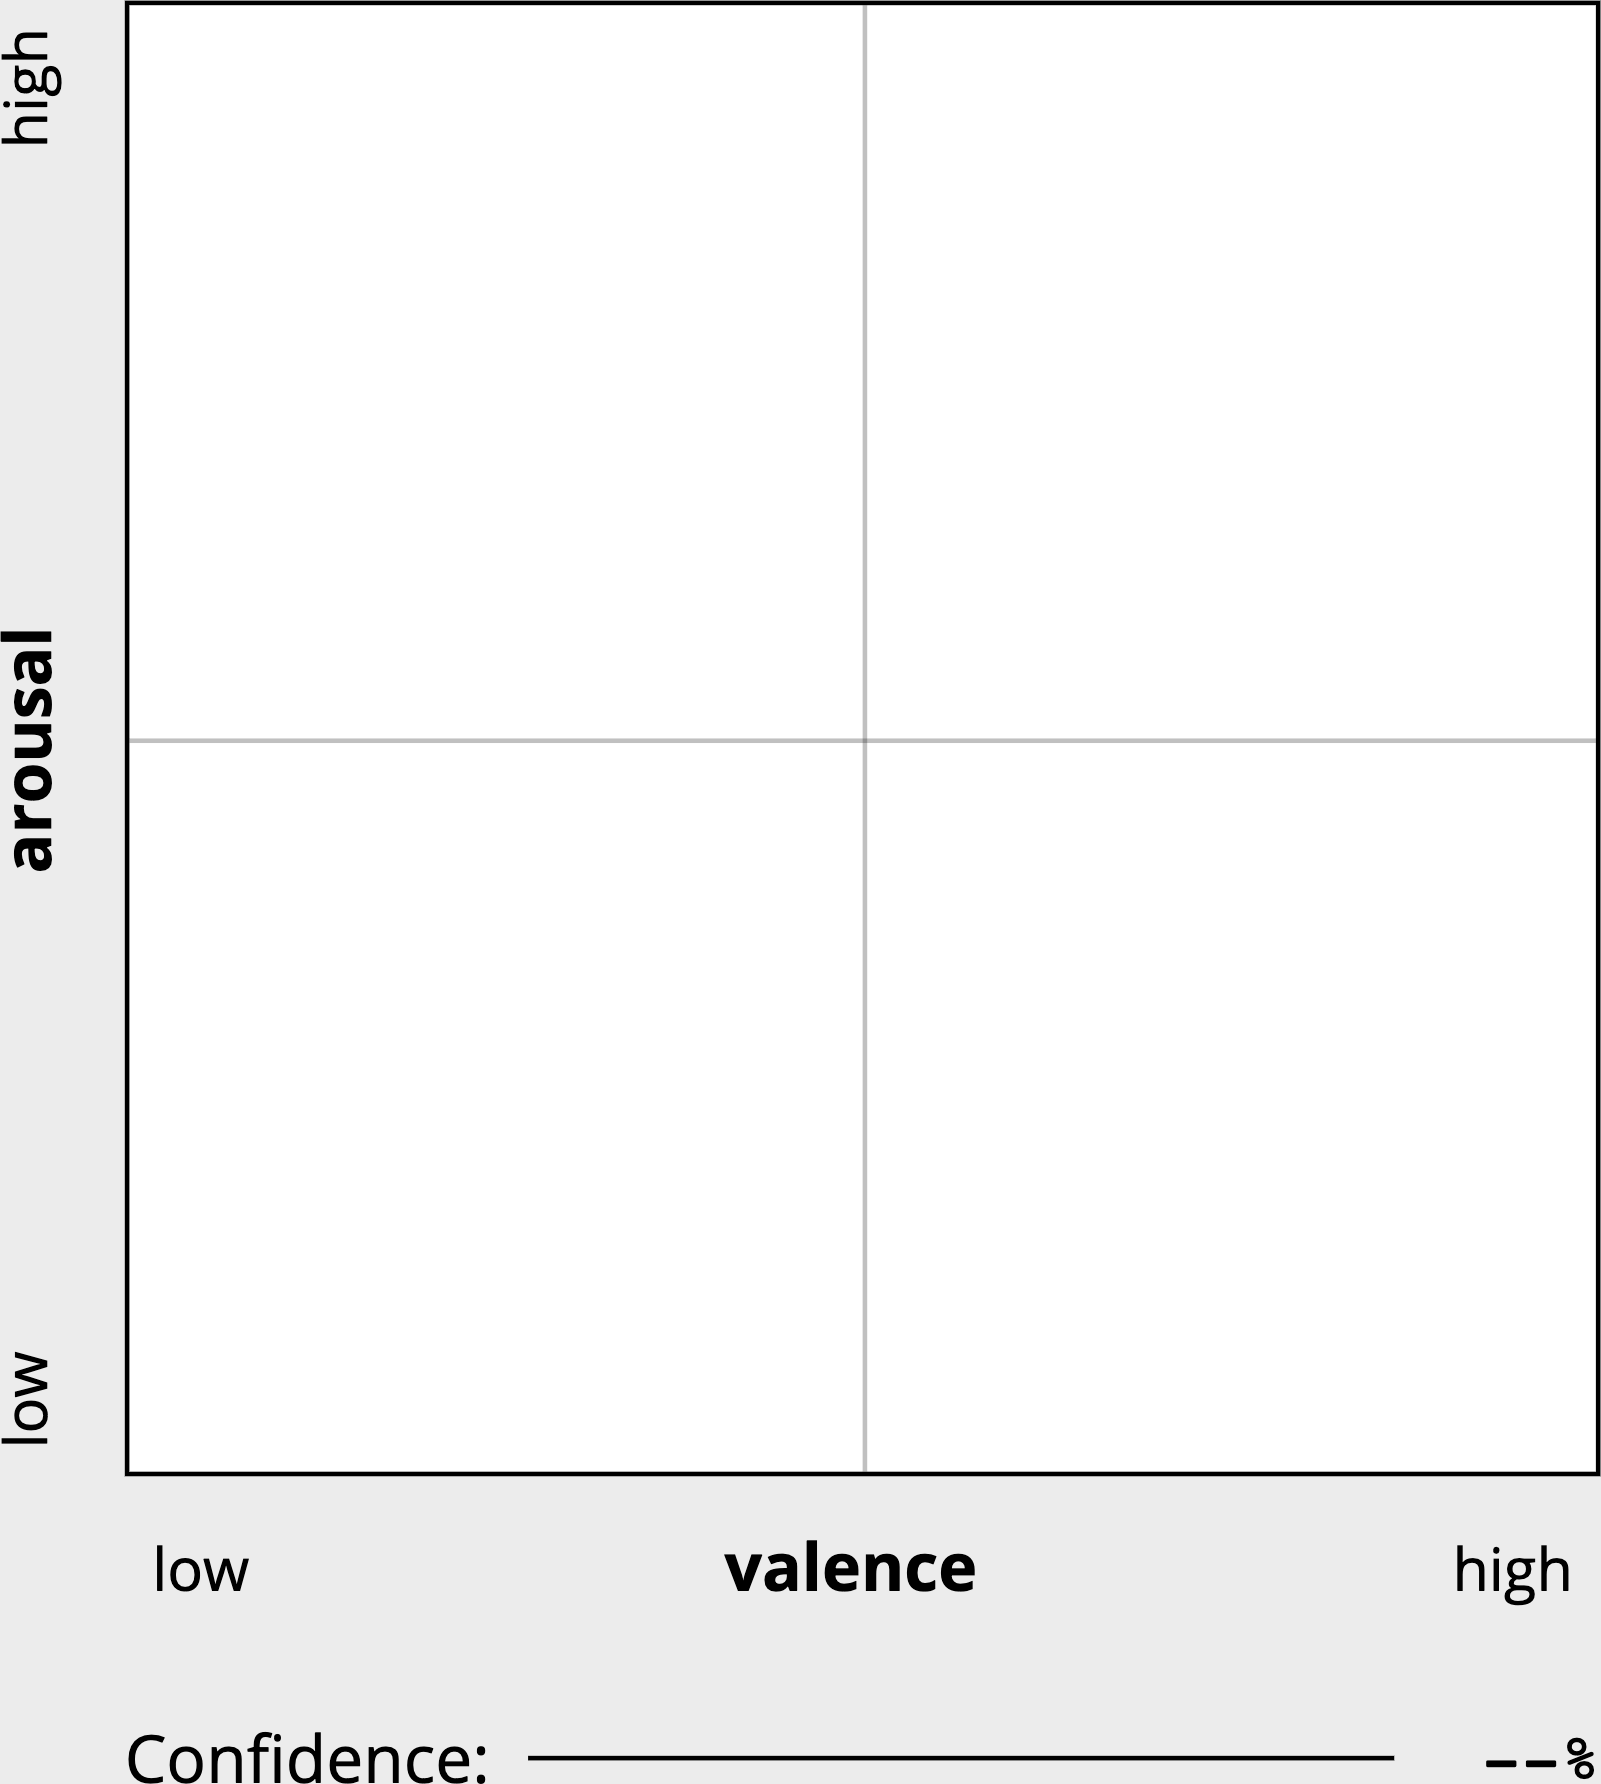
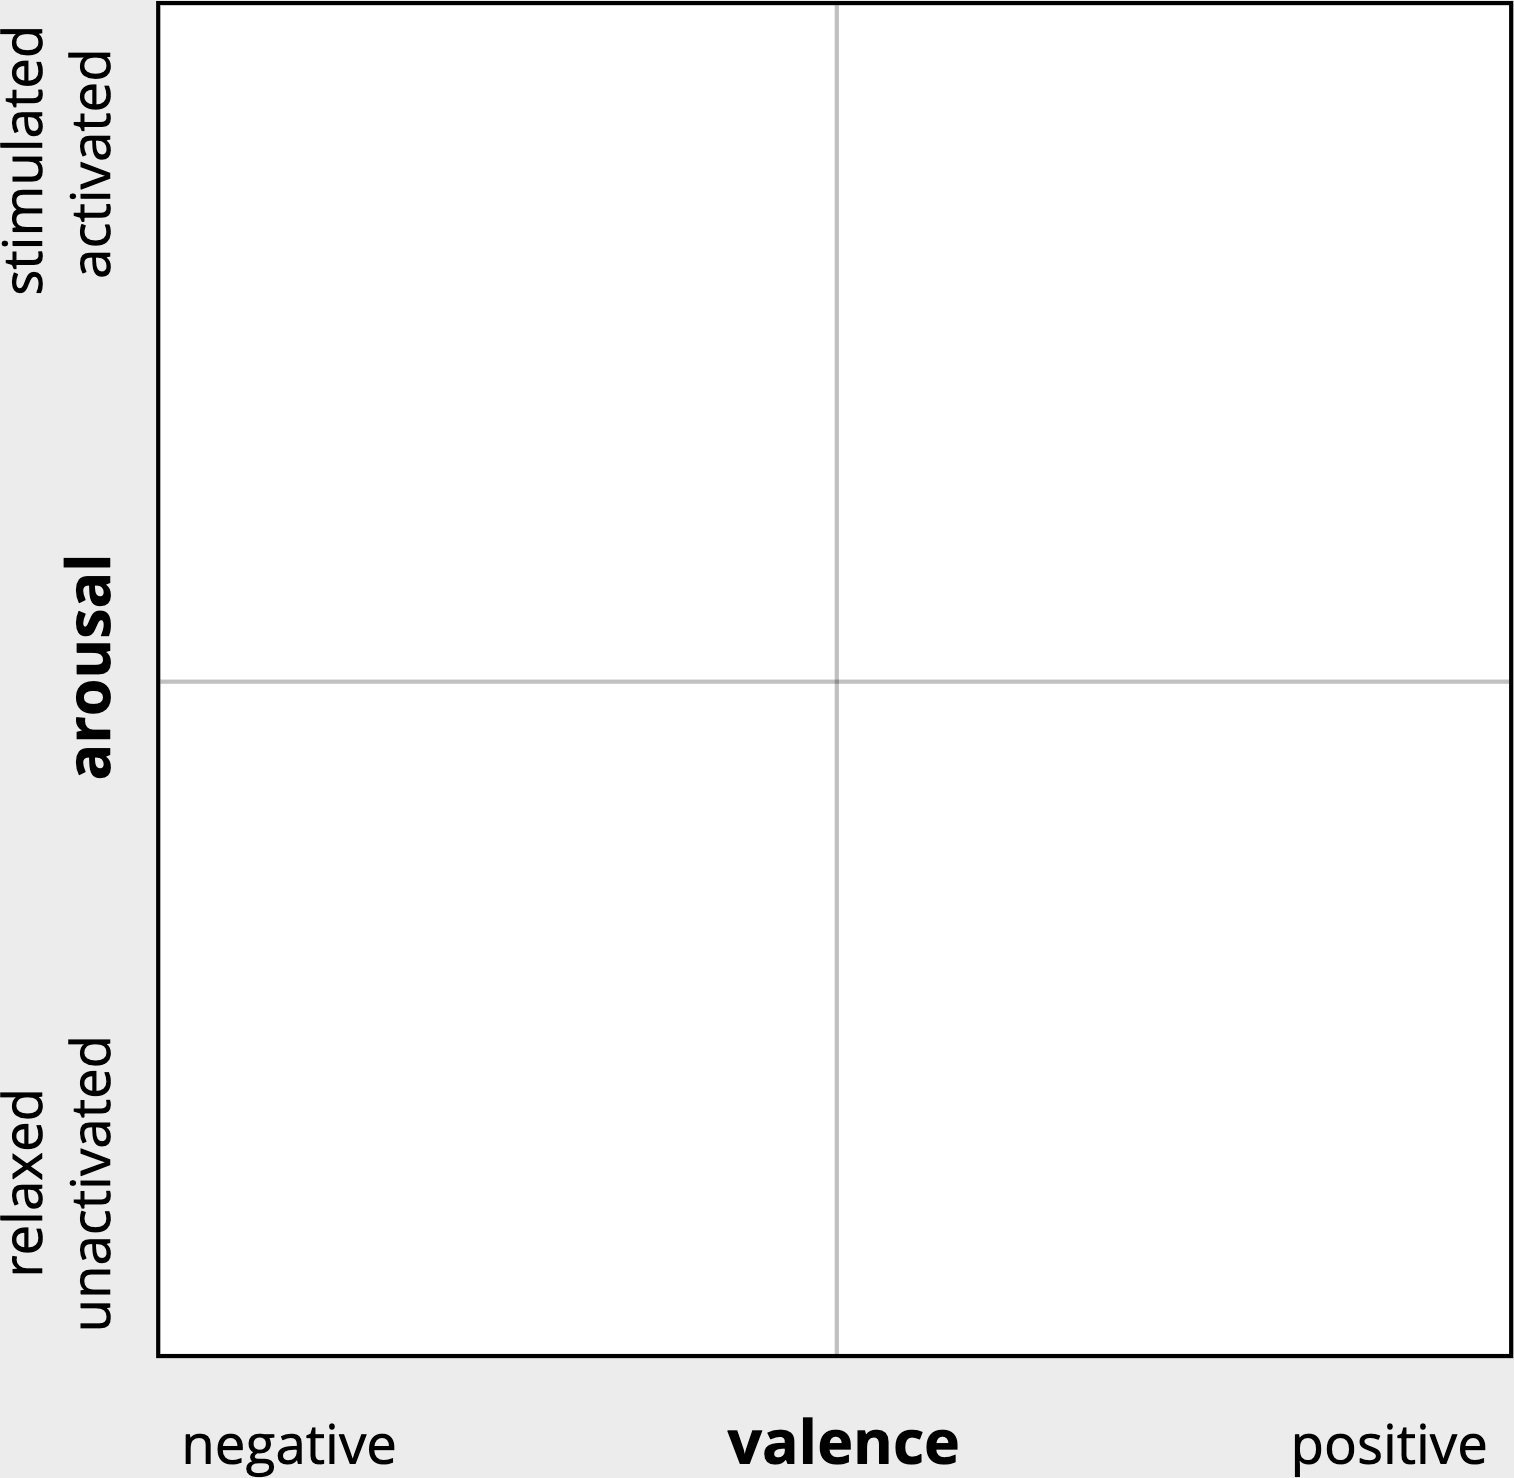
Updated grid labels, cleared data

Changed region(s): [[0.0, 0.0, 1.0, 0.9337], [0.3415, 0.9648, 1.0, 1.0], [0.0621, 0.9648, 0.3104, 1.0]]

diff --git a/lib/grid-response.js b/lib/grid-response.js
@@ -37,18 +37,18 @@ jsPsych.plugins['grid-response'] = (function(){
         let grid_input_container_html = `
         <div class="flex">
         <div class="grid-label grid-input-label-left">
-            <span class="smol-label">low</span>
+            <span class="smol-label">unactivated<br>relaxed</span>
             <b>arousal</b>
-            <span class="smol-label">high</span></div>
+            <span class="smol-label">activated<br>stimulated</span></div>
         <div id="grid-input-container">
             <div id="grid-input-pos-indicator"></div>
         </div>
         <div class="grid-label grid-input-label-right"></div>
         </div>
         <div class="grid-label grid-label-bottom">
-            <span class="smol-label">low</span>
+            <span class="smol-label">negative</span>
             <b>valence</b>
-            <span class="smol-label">high</span></div>
+            <span class="smol-label">positive</span></div>
         </div>
         `;
 

diff --git a/lib/experiment.js b/lib/experiment.js
@@ -1,7 +1,7 @@
 const debug = false;
 
 const VIDEO_BASE_URL = 'ressources/mp4/';
-const VIDEOS_PER_USER = 1;
+const VIDEOS_PER_USER = 10;
 
 let videos_displayed = 0;
 

diff --git a/lib/style.css b/lib/style.css
@@ -131,6 +131,7 @@ body.debug::before{
 }
 
 .grid-input-label-right, .grid-input-label-left{
+    line-height: 16px;
     width: 26px;
 }
 
